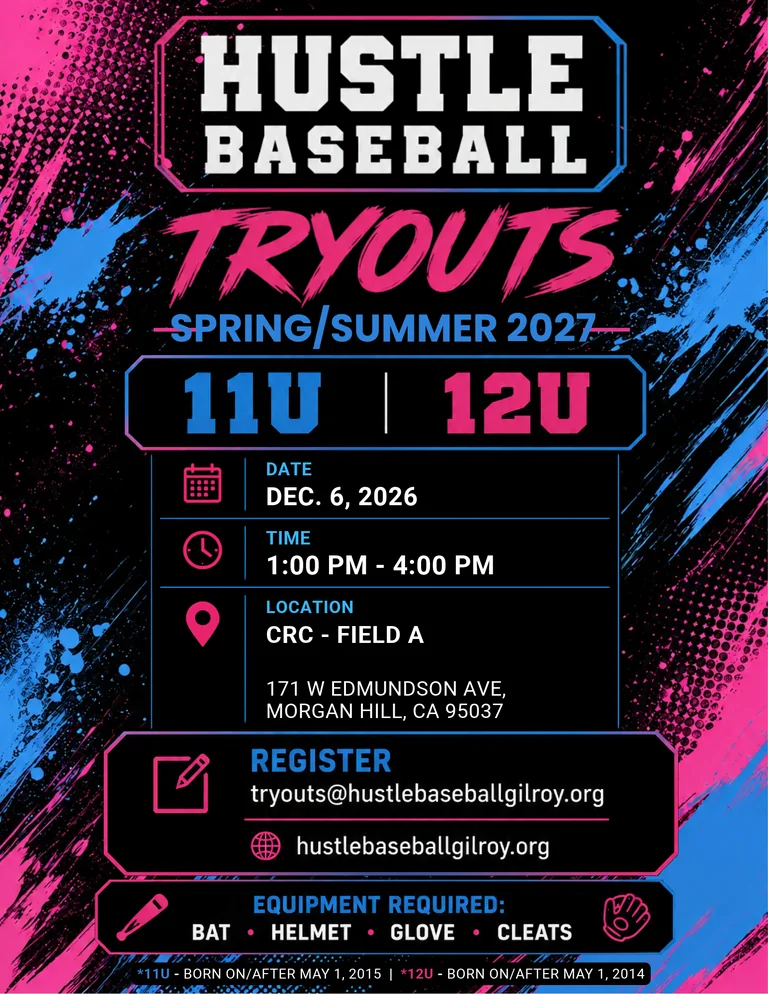
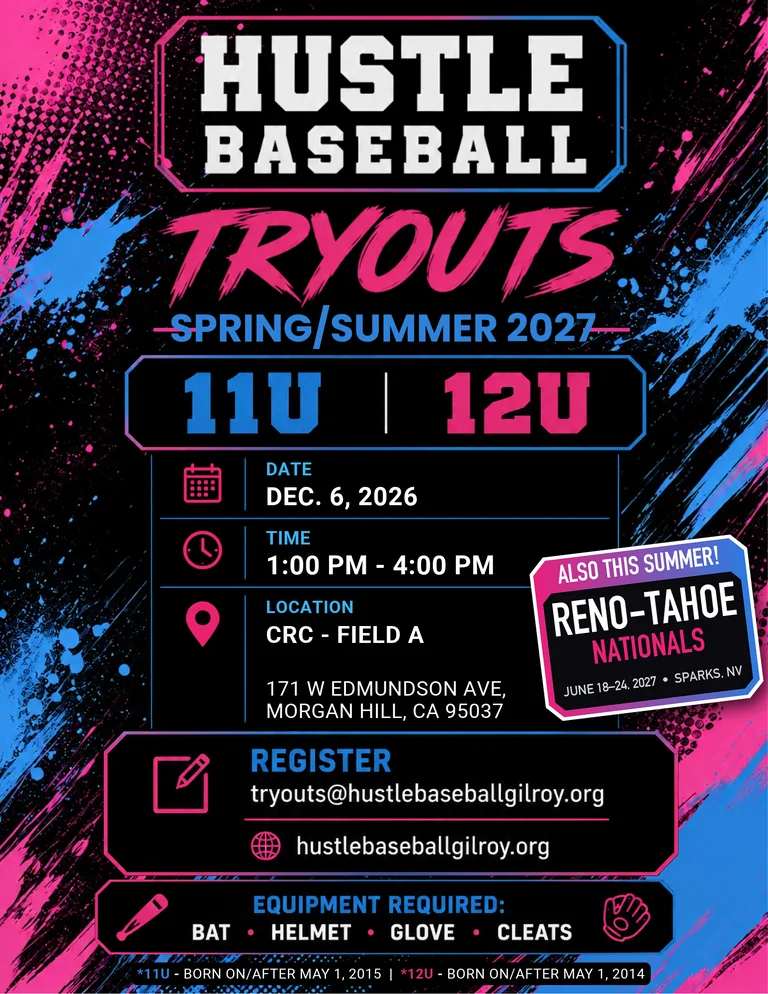
Add Reno-Tahoe Nationals sticker to the tryouts flyer

Changed region(s): [[0.6875, 0.5302, 1.0, 0.7485]]

diff --git a/announcements.md b/announcements.md
@@ -21,7 +21,7 @@ Registration is now open for our Spring/Summer 2027 travel ball season, and tryo
 
 We can't wait to see you on the field! ⚾
 
-<img src="/images/spring-summer-2027-tryouts.webp" alt="Spring/Summer 2027 Tryouts - December 6th, 2026" width="500" class="announcement-image">
+<img src="/images/spring-summer-2027-tryouts.webp" alt="Spring/Summer 2027 Tryouts - December 6th, 2026. Also this summer: Reno-Tahoe Nationals, June 18-24, 2027 in Sparks, NV" width="500" class="announcement-image">
 
 ------
 
